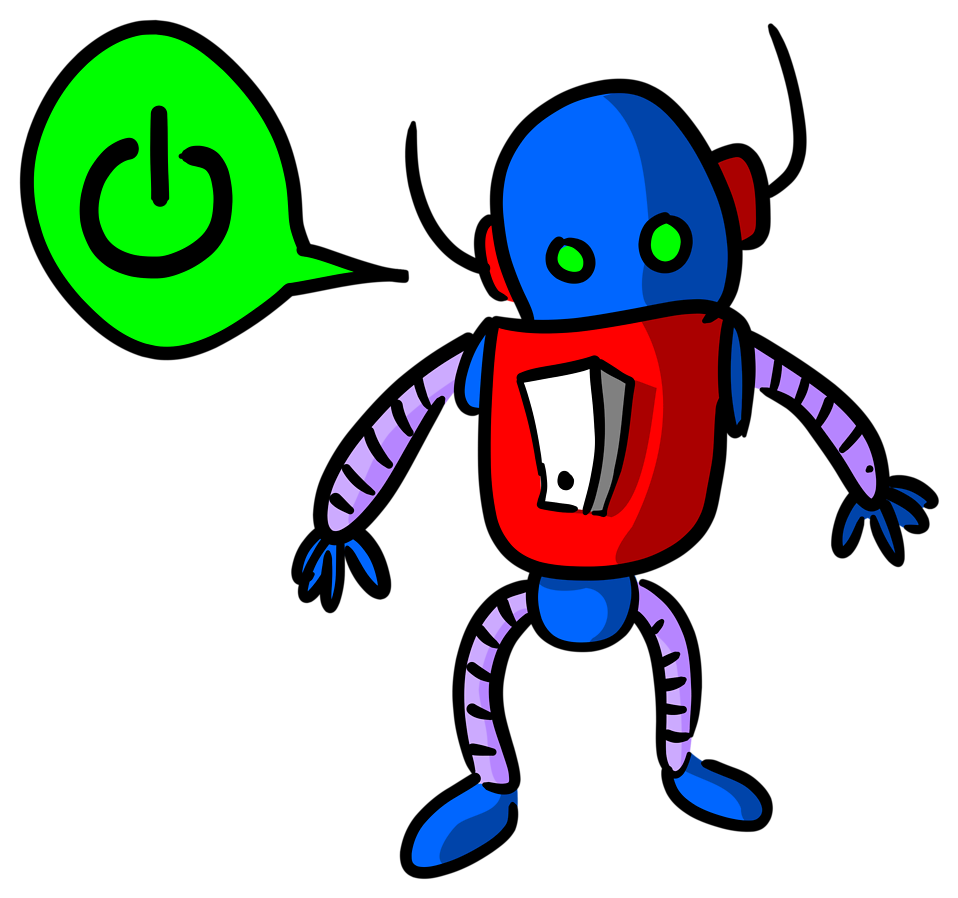
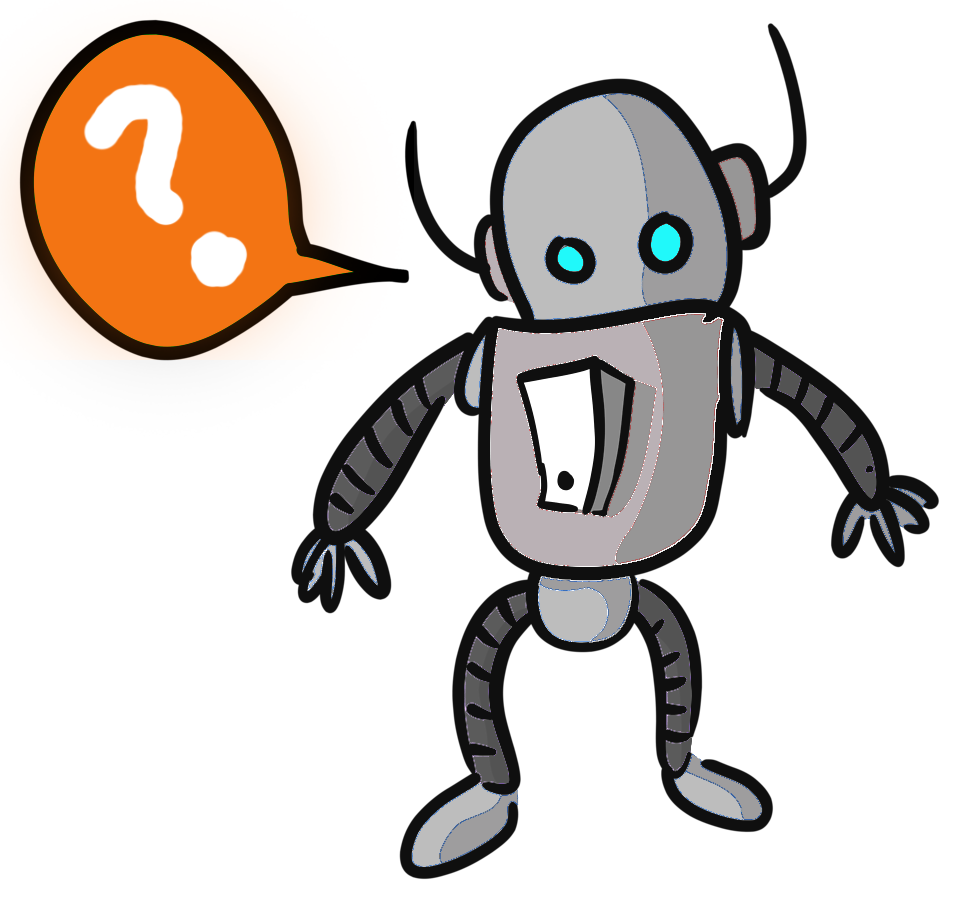
Add image on 404 page

Changed region(s): [[0.3027, 0.0935, 0.9687, 0.9666], [0.0, 0.0312, 0.3633, 0.4053]]

diff --git a/application/views/errors/html/error_404.php b/application/views/errors/html/error_404.php
@@ -31,6 +31,7 @@ a {
 h1 {
 	color: rgba(255,255,255,0.3);
 	font-weight: normal;
+	margin-top: 2%;
 }
 
 code {
@@ -80,6 +81,7 @@ h3{
 <!-- include APPPATH.'/views/pg_user/header.php'; -->
 	<div class="error-404">
 		<div id="container">
+			<img src="<?=config_item('base_url'); ?>assets/img/404_robot.png" alt="robot.png" width="25%">
 			<h1>404</h1>
 			<h3>Halaman Tidak Ditemukan</h3>
 			<a href="javascript:history.back()">Kembali ke halaman sebelumnya</a> <span>atau</span>
